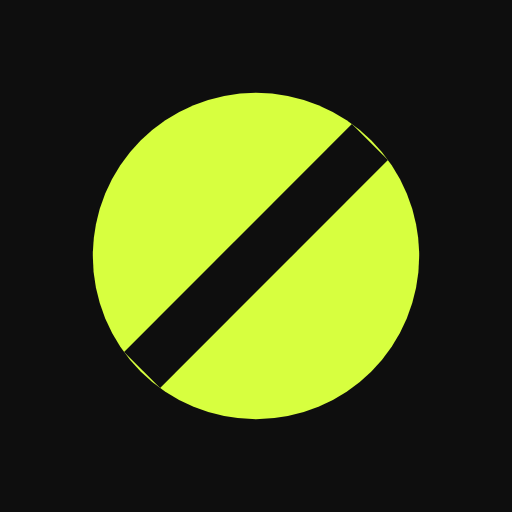
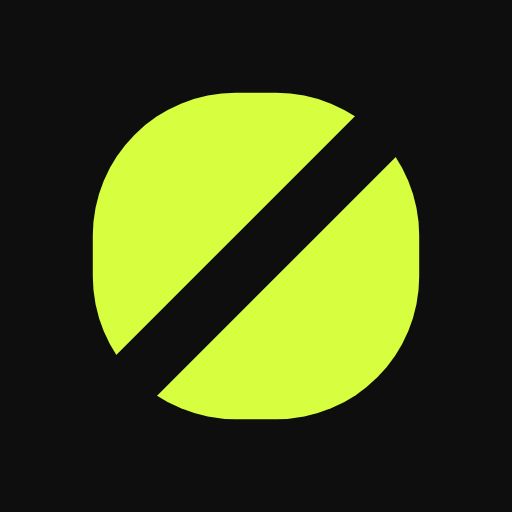
Match the mark to the supplied reference
Rounded-square lime shape split by an open diagonal gap (transparent,
not a black bar), so it reads correctly on light and dark backgrounds.
Applied to the nav and footer logo and every favicon and app icon.

Claude-Session: https://claude.ai/code/session_01LZDmZrZUzabgWNQZwDnLBR

Changed region(s): [[0.2812, 0.2812, 0.8438, 0.8438], [0.1562, 0.1562, 0.7188, 0.7188], [0.1562, 0.1562, 0.4688, 0.4688]]

diff --git a/index.html b/index.html
@@ -601,7 +601,7 @@ dialog.cs::backdrop{background:rgba(5,5,5,.86);backdrop-filter:blur(.375rem)}
 <script type="application/ld+json">
 {"@context":"https://schema.org","@graph":[{"@type":"Person","name":"Rijan Shrestha","jobTitle":"Graphic & Multimedia Designer","description":"Graphic and multimedia designer based in Dubai: brand identity, packaging, social content, motion graphics, animation and AI image and video.","url":"https://rijansth.github.io/","image":"https://rijansth.github.io/og.jpg","address":{"@type":"PostalAddress","addressLocality":"Dubai","addressCountry":"AE"},"nationality":"Nepali","sameAs":["https://www.behance.net/b_maxsth","https://www.linkedin.com/in/rijan-shrestha-939626224/","https://github.com/rijansth"],"knowsAbout":["Brand identity","Packaging design","Social media design","Motion graphics","Animation","AI image generation","AI video generation"],"alternateName":["Rijan Shrestha Designer","b_maxsth"],"worksFor":{"@type":"Organization","name":"Avarten Group","address":{"@type":"PostalAddress","addressLocality":"Dubai","addressCountry":"AE"}},"mainEntityOfPage":"https://rijansth.github.io/","@id":"https://rijansth.github.io/#person"},{"@type":"WebSite","@id":"https://rijansth.github.io/#website","url":"https://rijansth.github.io/","name":"Rijan Shrestha","alternateName":"Rijan Shrestha — Portfolio","publisher":{"@id":"https://rijansth.github.io/#person"},"inLanguage":"en"},{"@type":"ProfilePage","@id":"https://rijansth.github.io/#profile","url":"https://rijansth.github.io/","name":"Rijan Shrestha — Graphic & Multimedia Designer in Dubai","mainEntity":{"@id":"https://rijansth.github.io/#person"},"isPartOf":{"@id":"https://rijansth.github.io/#website"}}]}
 </script>
-<script src="app.js?v=5" defer></script>
+<script src="app.js?v=6" defer></script>
 </head>
 <body>
 <svg width="0" height="0" style="position:absolute" aria-hidden="true">
@@ -613,7 +613,7 @@ dialog.cs::backdrop{background:rgba(5,5,5,.86);backdrop-filter:blur(.375rem)}
 <div class="progress" aria-hidden="true"></div>
 <nav class="nav wrap" aria-label="Main">
   <div class="pill">
-    <a class="logo" href="#top"><svg viewBox="0 0 100 100" aria-hidden="true"><circle cx="50" cy="50" r="48" fill="#D7FF3F"/><path d="M11.2 78.2 78.2 11.2 88.8 21.8 21.8 88.8z" fill="#0E0E0E"/></svg>Rijan</a>
+    <a class="logo" href="#top"><svg viewBox="0 0 100 100" aria-hidden="true"><defs><clipPath id="lgA"><path d="M0 0H88L0 88ZM100 12V100H12Z"/></clipPath></defs><rect x="2" y="2" width="96" height="96" rx="42" fill="#D7FF3F" clip-path="url(#lgA)"/></svg>Rijan</a>
     <button class="menu-btn" id="menuBtn" type="button" aria-expanded="false" aria-controls="menu" aria-label="Open menu"><svg class="i"><use href="#bars"/></svg></button>
     <div class="menu" id="menu" hidden>
       <a href="#work">Work</a><a href="#about">About</a><a href="#services">Services</a><a href="#experience">Experience</a><a href="#skills">Skills</a><a href="#contact">Contact</a>
@@ -770,7 +770,7 @@ dialog.cs::backdrop{background:rgba(5,5,5,.86);backdrop-filter:blur(.375rem)}
 <footer class="wrap">
   <div class="foot">
     <div>
-      <a class="logo" href="#top"><svg viewBox="0 0 100 100" aria-hidden="true"><circle cx="50" cy="50" r="48" fill="#D7FF3F"/><path d="M11.2 78.2 78.2 11.2 88.8 21.8 21.8 88.8z" fill="#0E0E0E"/></svg>Rijan Shrestha</a>
+      <a class="logo" href="#top"><svg viewBox="0 0 100 100" aria-hidden="true"><defs><clipPath id="lgB"><path d="M0 0H88L0 88ZM100 12V100H12Z"/></clipPath></defs><rect x="2" y="2" width="96" height="96" rx="42" fill="#D7FF3F" clip-path="url(#lgB)"/></svg>Rijan Shrestha</a>
       <p>Nepali graphic &amp; multimedia designer in Al Rigga, Dubai. Graphic design, motion graphics, animation, AI image and AI video.</p>
     </div>
     <div><h4>Menu</h4><ul><li><a href="#work">Work</a></li><li><a href="#about">About</a></li><li><a href="#services">Services</a></li><li><a href="#experience">Experience</a></li><li><a href="#contact">Contact</a></li></ul></div>
